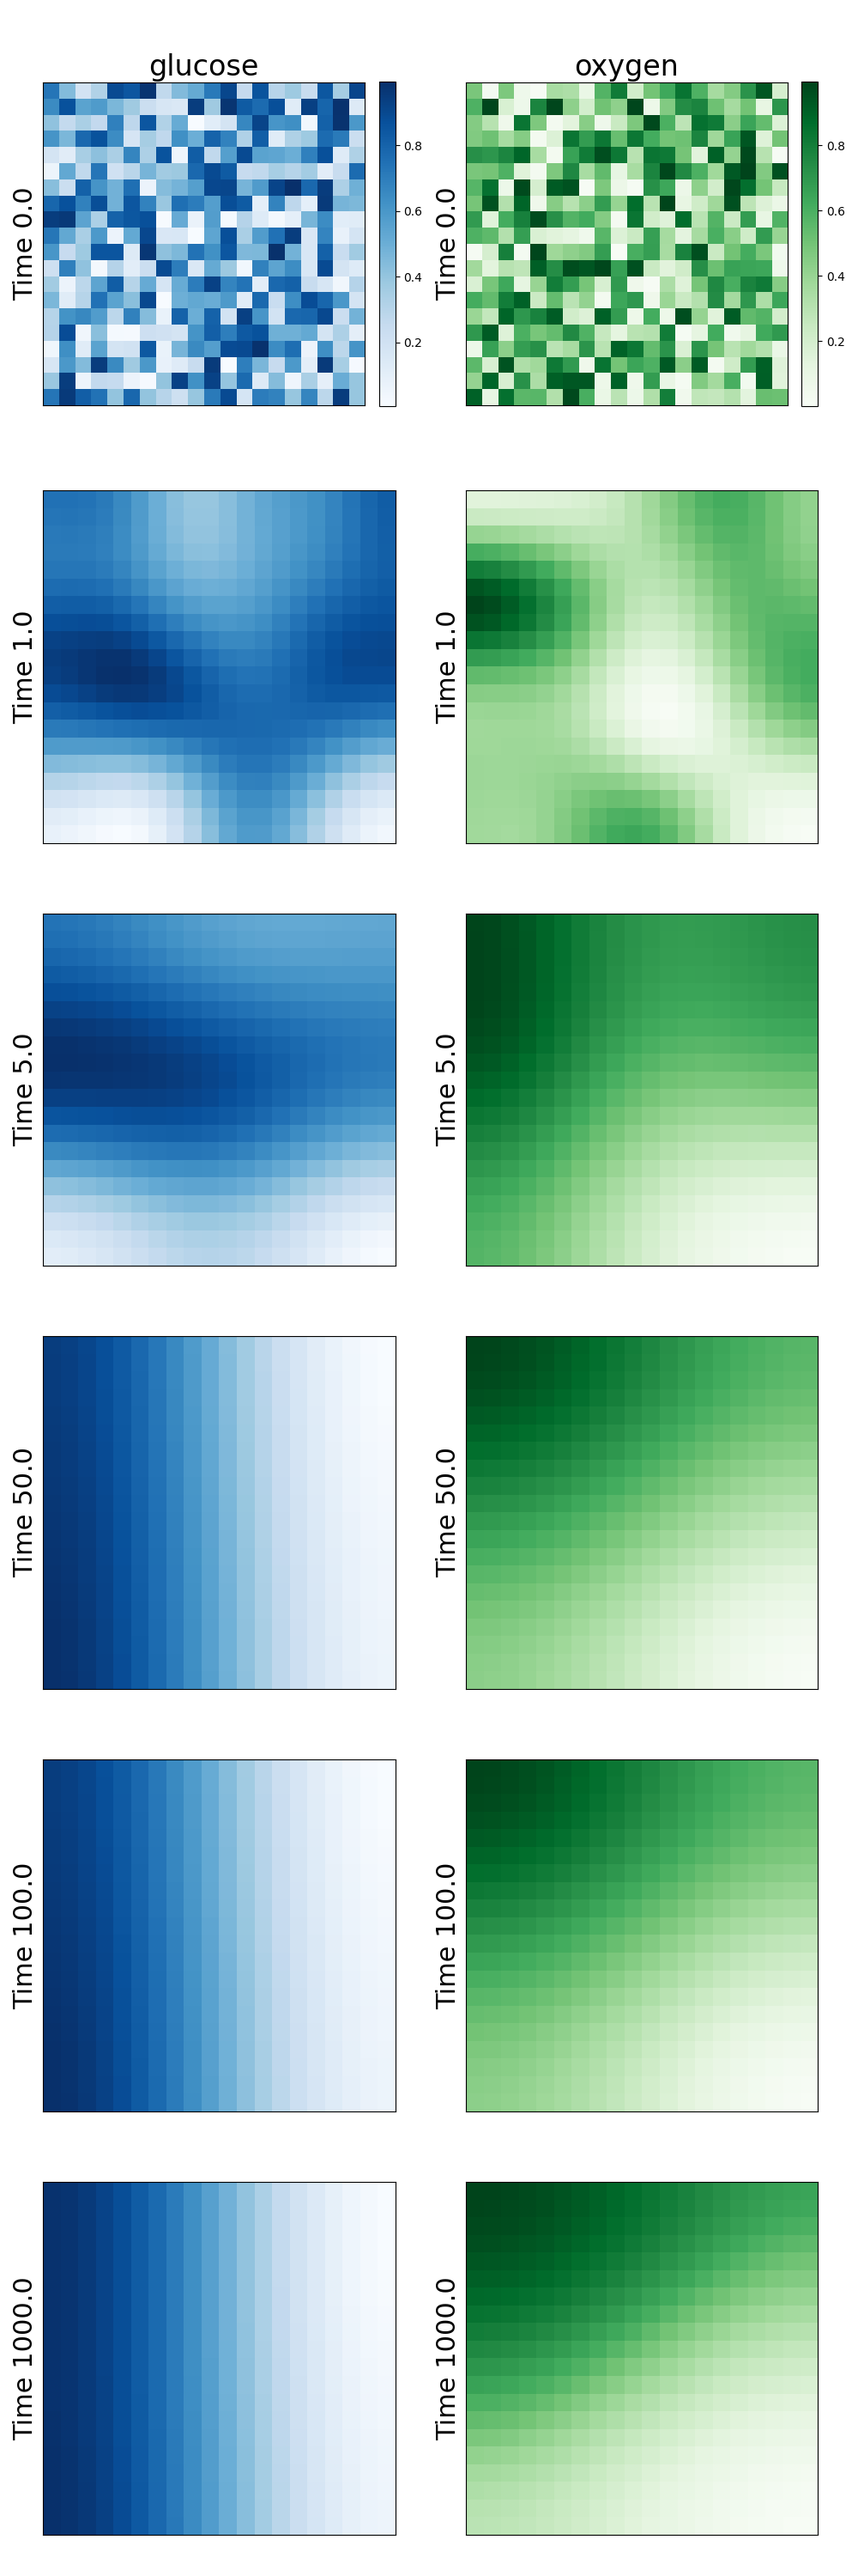
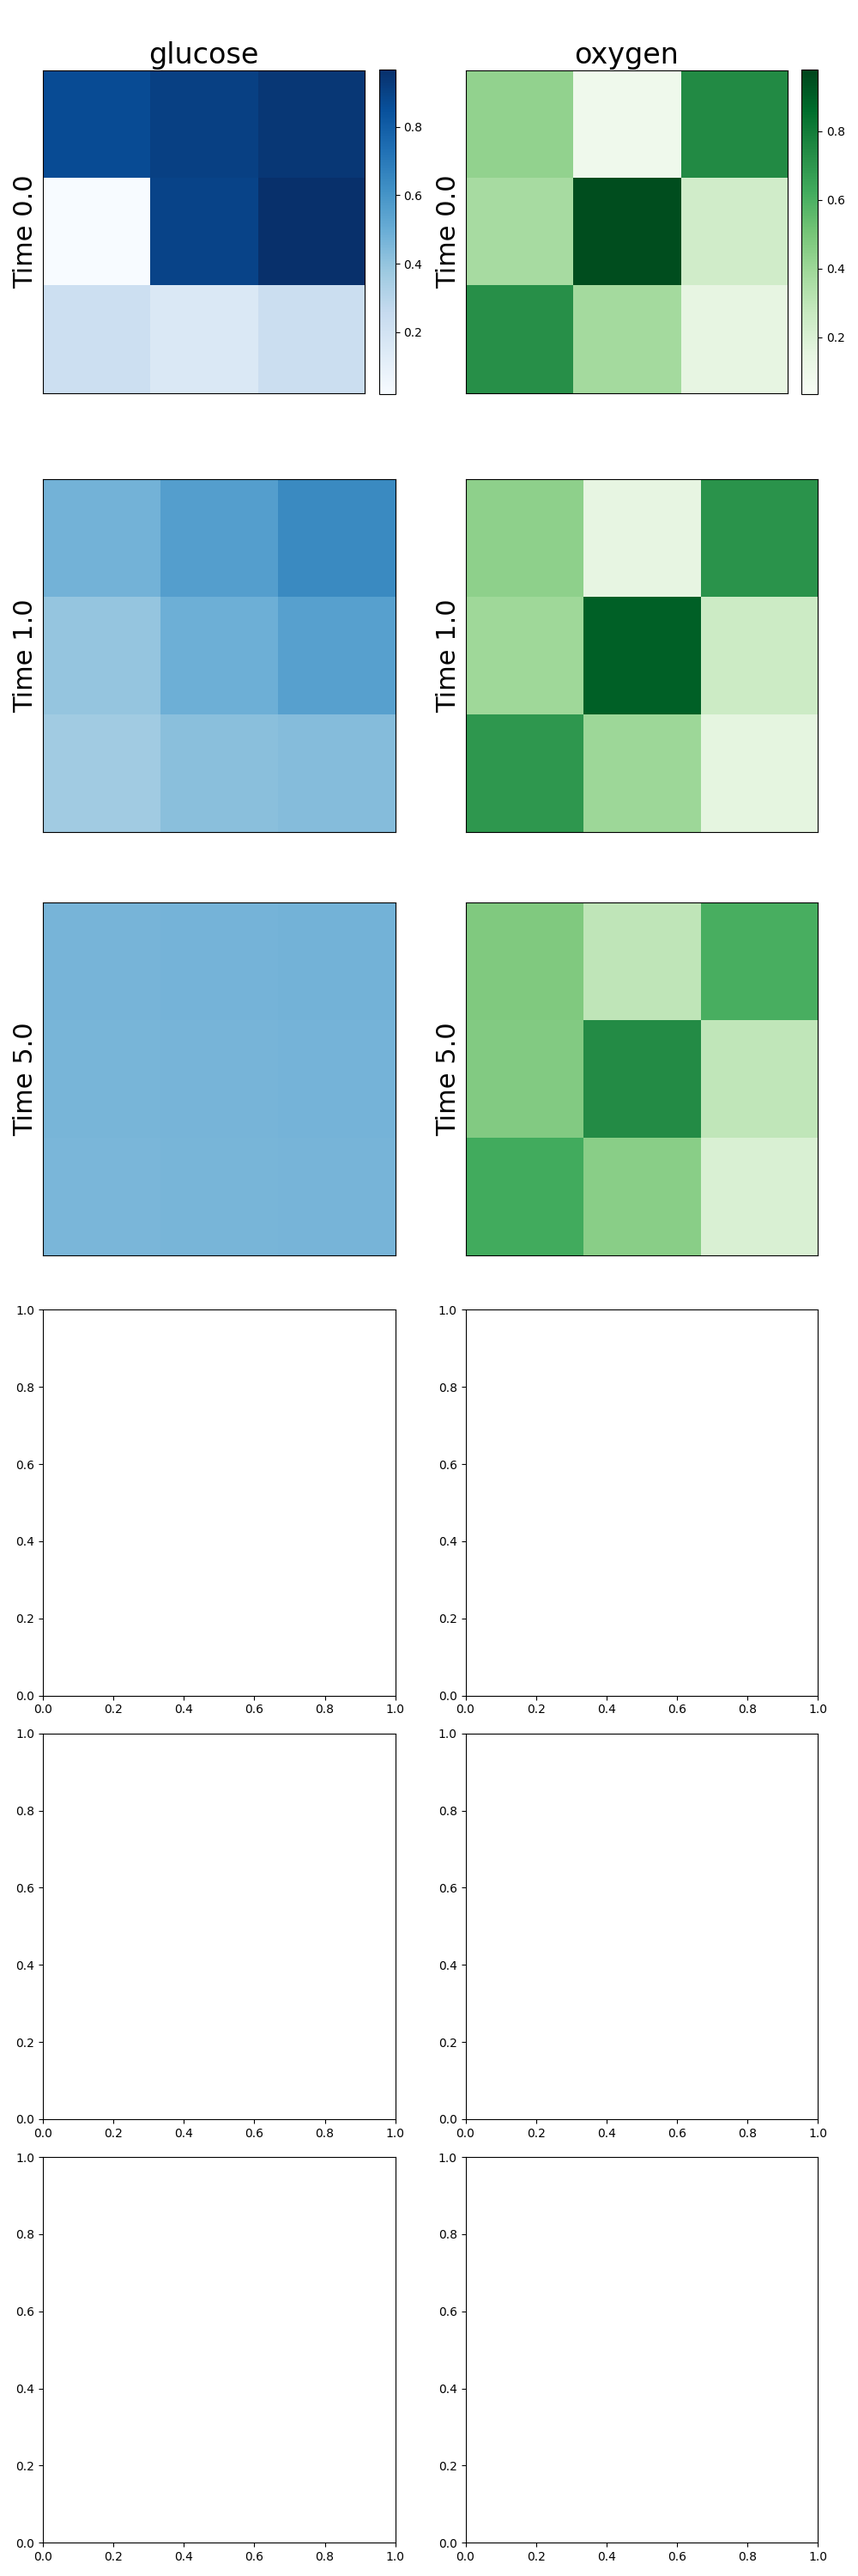
vizualization problem fixed

diff --git a/processes/diffusion_field.py b/processes/diffusion_field.py
@@ -35,15 +35,15 @@ def get_bin_volume(bin_size):
 
 class DiffusionField(Process):
     defaults = {
-        'bounds': [30, 30, 30], # cm
-        'nbins': [3, 3, 3],
+        'bounds': [10, 10, 10], # cm
+        'nbins': [10, 10, 10],
         'molecules': ['glucose', 'oxygen'],
         'species': ["Alteromonas"],
         'default_diffusion_dt': 0.001,
         'default_diffusion_rate': 2E-5,  # cm^2/s, set to the highest diffusion coefficient (oxygen)
         'diffusion': {
             'glucose': 6.7E-1, #6.7E-6,  # cm^2/s  TODO should find the current rate for cm^3
-            'oxygen':  6.7E-1 #2.0E-5,   # cm^2/s
+            'oxygen':  2.0E-2,     #2.0E-5,   # cm^2/s
         },
     }
 
@@ -153,7 +153,6 @@ class DiffusionField(Process):
                                             [[0, 0, 0], [0, 1, 0], [0, 0, 0]]])
         else:
             raise ValueError("Field must be 1D, 2D, or 3D")
-    
         t = 0.0
         dt = min(timestep, self.diffusion_dt)
         while t < timestep:
@@ -171,6 +170,7 @@ class DiffusionField(Process):
             if len(set(field.flatten())) != 1:  
                 fields[mol_id] = self.diffuse(field, timestep, diffusion_rate)
         return fields
+    
     
 def plot_fields_temporal(fields_data, desired_time_points, actual_time_points, z=2,
                          out_dir="/Users/amin/Desktop/VivaComet/processes/out/", filename='fields_at_z'):
@@ -193,6 +193,12 @@ def plot_fields_temporal(fields_data, desired_time_points, actual_time_points, z
         'oxygen': 'Greens',
     }
 
+    # Calculate global min/max for each molecule across all timepoints
+    global_min_max = {}
+    for molecule in fields_data.keys():
+        all_data = np.concatenate([np.array(times_data) for times_data in fields_data[molecule]], axis=0)
+        global_min_max[molecule] = (np.min(all_data), np.max(all_data))
+
     for mol_idx, molecule in enumerate(fields_data.keys()):
         times_data = fields_data[molecule]
         for time_idx, desired_time in enumerate(desired_time_points):
@@ -203,7 +209,8 @@ def plot_fields_temporal(fields_data, desired_time_points, actual_time_points, z
                 ax = axs[time_idx, mol_idx]
                 # Use the specified colormap for the molecule
                 cmap = molecule_colormaps.get(molecule, 'viridis')  # Default to 'viridis' if molecule not in dict
-                cax = ax.imshow(data, cmap=cmap, interpolation='nearest')
+                vmin, vmax = global_min_max[molecule]  # Use global min/max
+                cax = ax.imshow(data, cmap=cmap, interpolation='nearest',  vmin=vmin, vmax=vmax)
                 if time_idx == 0:
                     ax.set_title(molecule, fontsize=24)
                 ax.set_ylabel(f"Time {desired_time}", fontsize=22)
@@ -212,11 +219,11 @@ def plot_fields_temporal(fields_data, desired_time_points, actual_time_points, z
                 if time_idx == 0:
                     cb = fig.colorbar(cax, ax=ax, fraction=0.046, pad=0.04)
                     cb.ax.tick_params(labelsize=10)
-
                 
     plt.tight_layout()
     plt.savefig(f"{out_dir}/{filename}.png")
     plt.close()
+
 
 
 class Spatial_FBA(Process):
@@ -284,10 +291,10 @@ class Spatial_FBA(Process):
 
 #  3D test_field
 def test_fields():
-    total_time = 1000
+    total_time = 6
     config = {
-        "bounds": [10, 10, 10],
-        "nbins": [20, 20, 20],
+        "bounds": [3, 3, 3],
+        "nbins": [3, 3,3],
         "molecules": ["glucose", "oxygen"]
     }
     field = DiffusionField(config)
